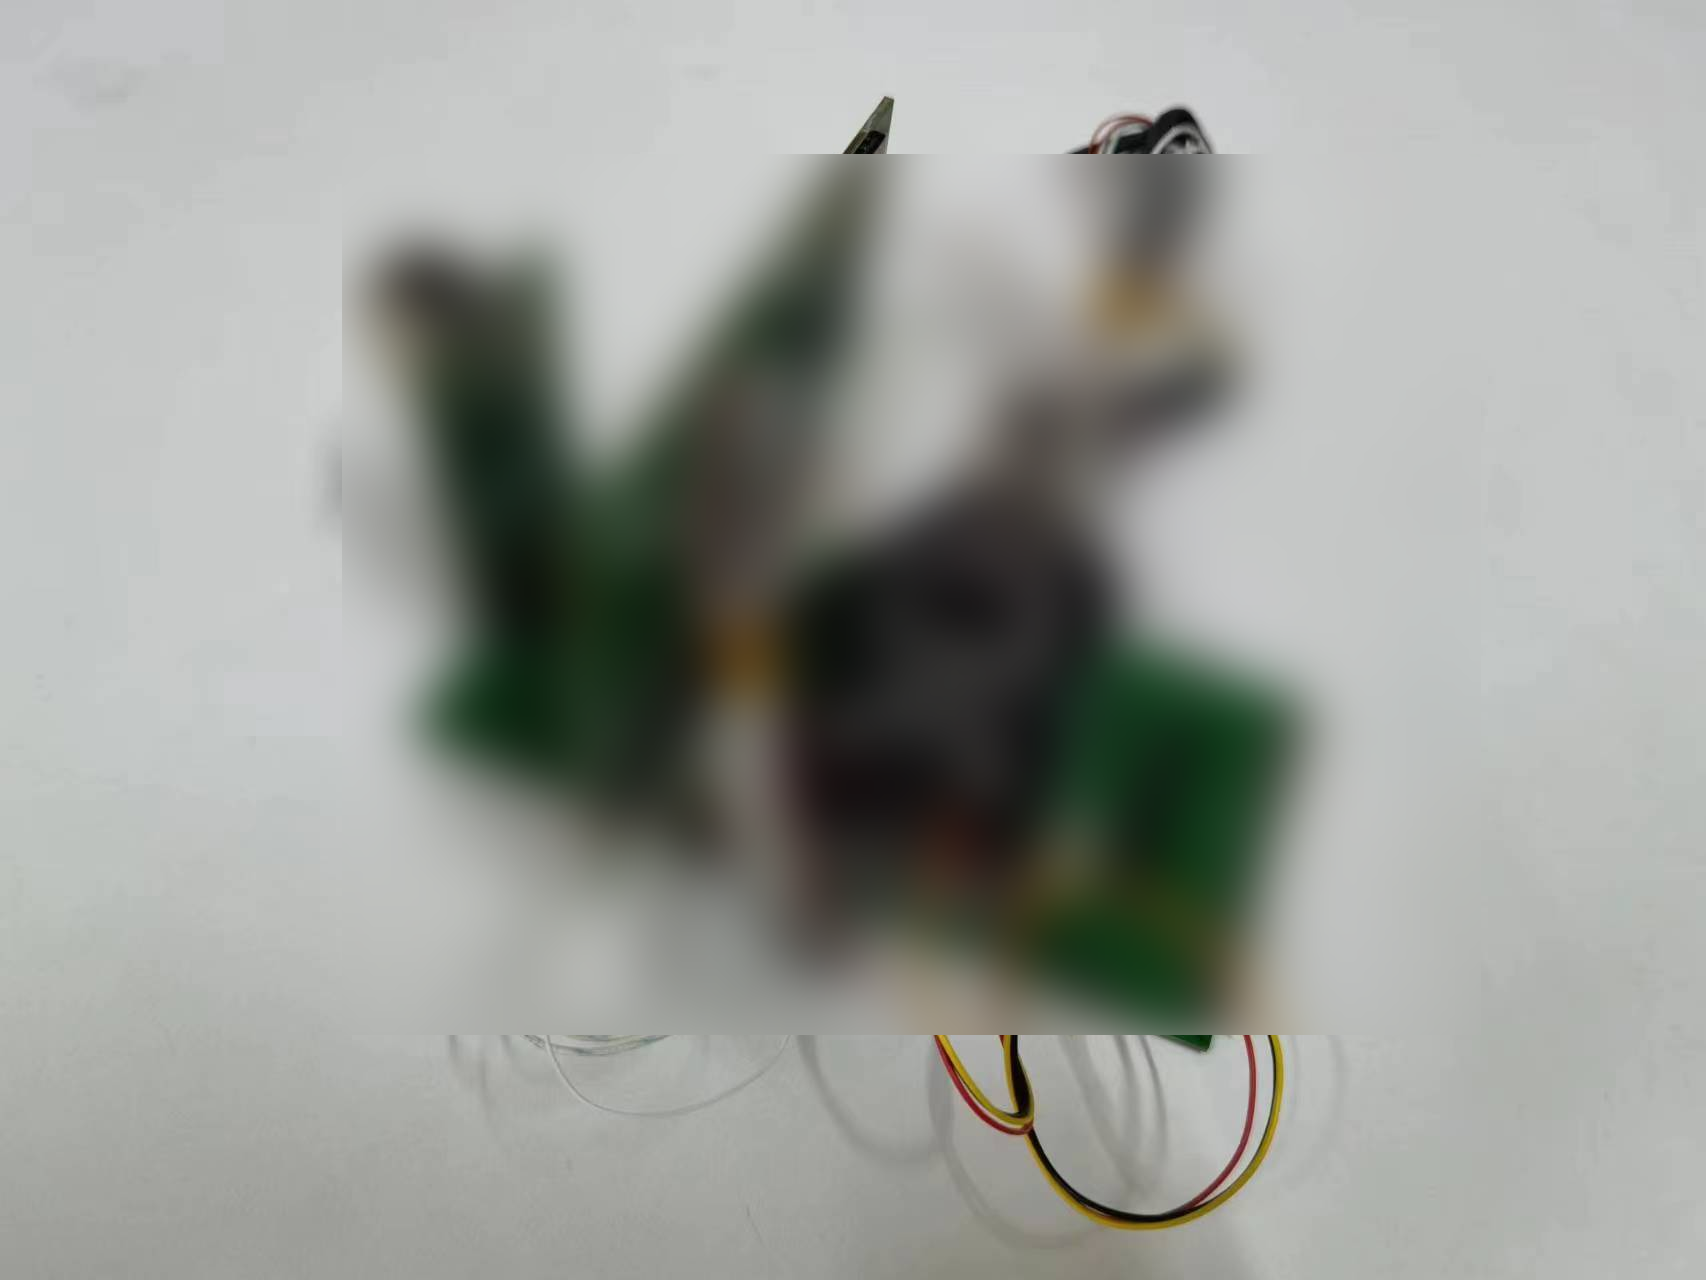
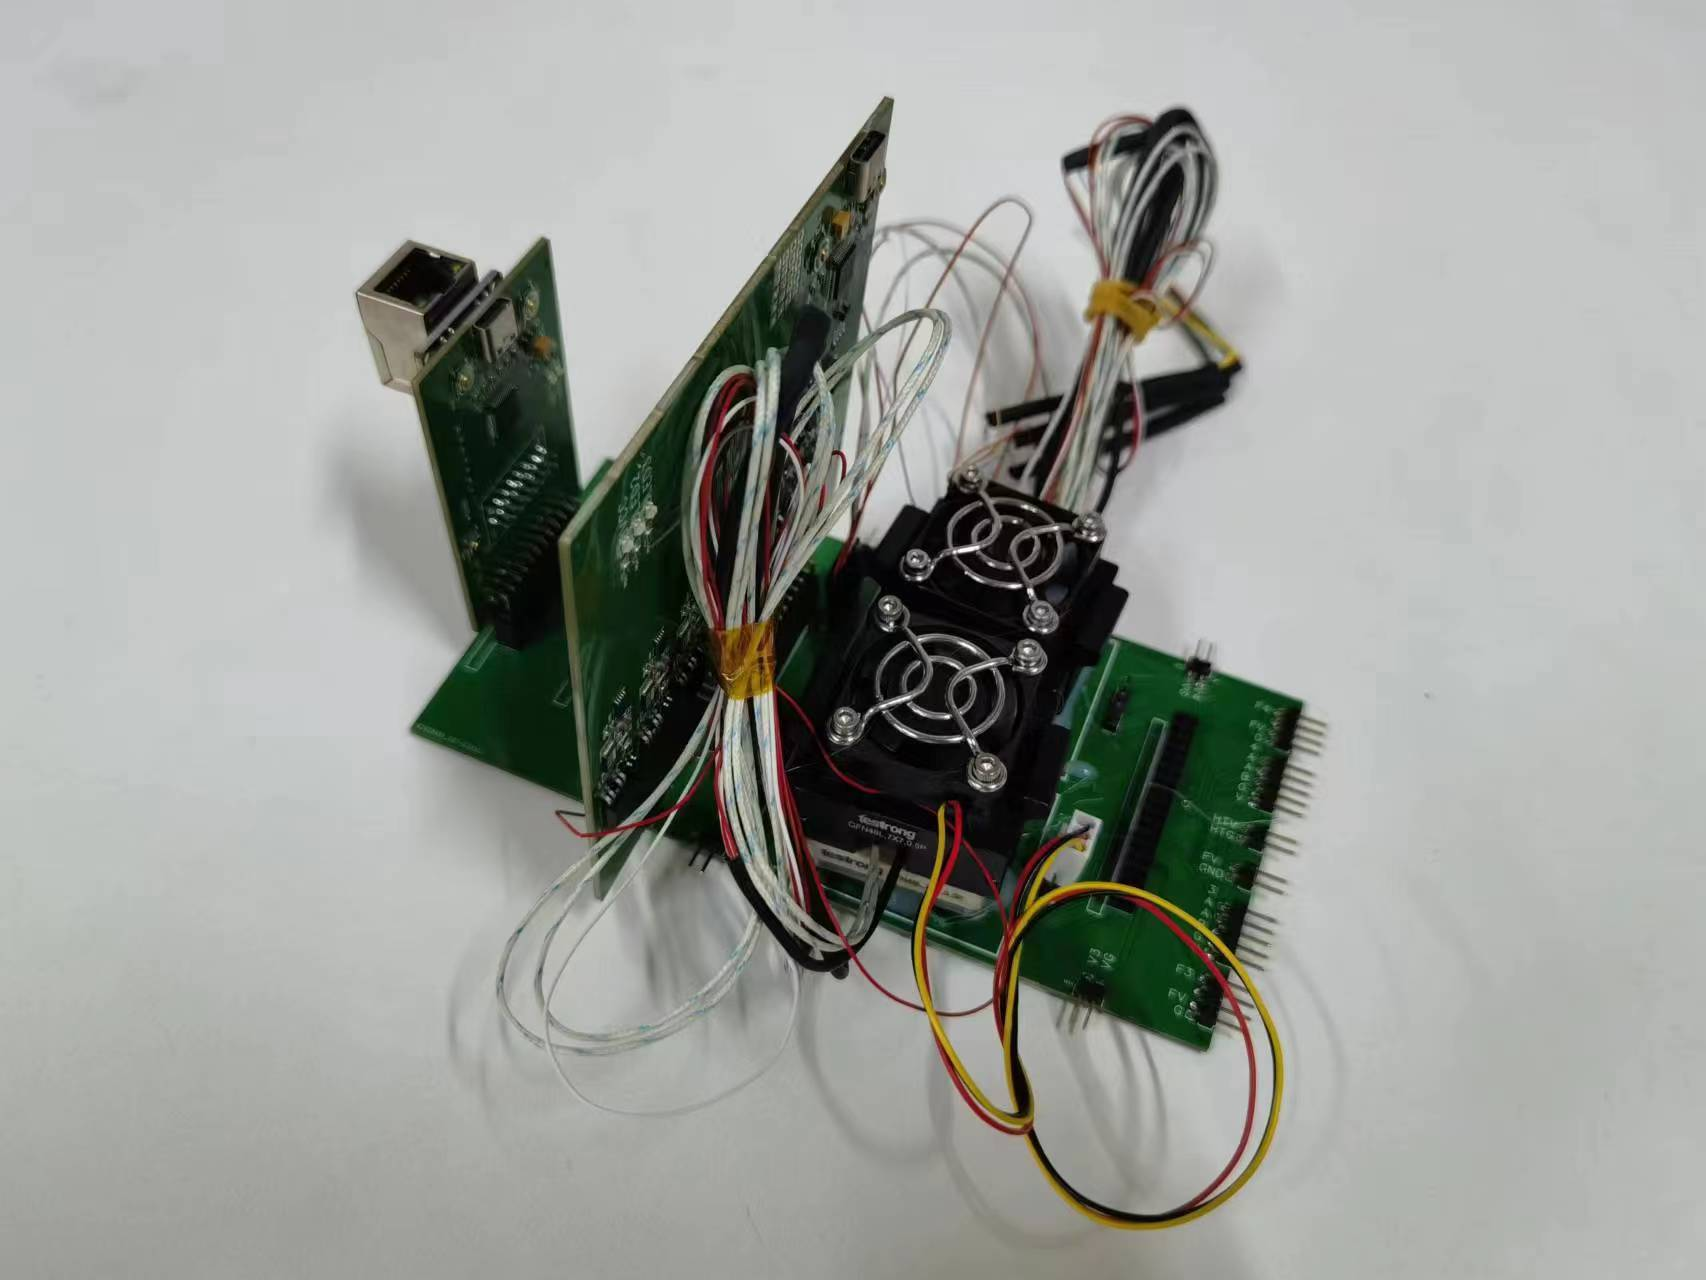
modified:   about.html 	modified:   contact.html 	modified:   css/style.css 	new file:   images/main-pic-1.png 	new file:   images/main-pic-2.png 	new file:   images/main-pic-3.png 	modified:   images/p10-htol-1.jpg 	modified:   images/p12-maglev-1.png 	modified:   images/p13-micronano-1.jpg 	delete

Changed region(s): [[0.1864, 0.0938, 0.7767, 0.8125], [0.2796, 0.7188, 0.3417, 0.7812]]

diff --git a/index.html b/index.html
@@ -121,7 +121,7 @@
 
             <div class="cate">
                 <div class="cate-pic">
-                    <img src="images/p1-pogopin-insert-2.jpg" alt="智能化高精度加工检测设备">
+                    <img src="images/main-pic-1.png" alt="智能化高精度加工检测设备">
                     <span class="badge">01</span>
                 </div>
                 <div class="cate-body">
@@ -143,7 +143,7 @@
 
             <div class="cate rev">
                 <div class="cate-pic">
-                    <img src="images/chip.jpg" alt="专用控制板卡与工业控制软件">
+                    <img src="images/main-pic-2.png" alt="专用控制板卡与工业控制软件">
                     <span class="badge">02</span>
                 </div>
                 <div class="cate-body">
@@ -161,7 +161,7 @@
 
             <div class="cate">
                 <div class="cate-pic">
-                    <img src="images/odd_looking_machine.jpeg" alt="科学仪器与设备">
+                    <img src="images/main-pic-3.png" alt="科学仪器与设备">
                     <span class="badge">03</span>
                 </div>
                 <div class="cate-body">
@@ -203,7 +203,7 @@
                     <div class="big">快</div>
                     <div>
                         <h3>高效交付</h3>
-                        <p>组装速度1,500 pcs/hr（2–3倍人工效率），参数化配置，快速响应客户需求。</p>
+                        <p>快速组装，参数化配置，即刻响应客户需求。</p>
                     </div>
                 </div>
                 <div class="adv-card">
@@ -289,7 +289,7 @@
                     <h4>联系我们</h4>
                     <ul class="contact">
                         <li><span class="k">邮箱</span><span>taoxin@foloe.cn</span></li>
-                        <li><span class="k">地址</span><span>上海市青浦区双联路168号复襄公社</span></li>
+                        <li><span class="k">地址</span><span>上海市青浦区双联路168号复襄公社4号楼108室</span></li>
                     </ul>
                 </div>
             </div>

diff --git a/products/pogopin-probe-insertion-machine.html b/products/pogopin-probe-insertion-machine.html
@@ -60,8 +60,8 @@
             <div class="pd-wrap">
                 
 <div class="pd-gallery">
-    <div class="main-pic"><img src="../images/p1-pogopin-insert-2.jpg" alt="PogoPin探针卡植针机"></div>
-    <div class="thumbs"><img src="../images/p1-pogopin-insert-2.jpg" alt="PogoPin探针卡植针机" class="on" data-full="../images/p1-pogopin-insert-2.jpg"><img src="../images/p1-pogopin-insert-1.jpg" alt="PogoPin探针卡植针机" class="" data-full="../images/p1-pogopin-insert-1.jpg"><img src="../images/p1-pogopin-insert-3.jpg" alt="PogoPin探针卡植针机" class="" data-full="../images/p1-pogopin-insert-3.jpg"></div>
+    <div class="main-pic"><img src="../images/p1-pogopin-insert-1.jpg" alt="PogoPin探针卡植针机"></div>
+    <div class="thumbs"><img src="../images/p1-pogopin-insert-1.jpg" alt="PogoPin探针卡植针机" class="on" data-full="../images/p1-pogopin-insert-1.jpg"><img src="../images/p1-pogopin-insert-2.jpg" alt="PogoPin探针卡植针机" class="" data-full="../images/p1-pogopin-insert-2.jpg"><img src="../images/p1-pogopin-insert-3.jpg" alt="PogoPin探针卡植针机" class="" data-full="../images/p1-pogopin-insert-3.jpg"></div>
 </div>
                 <div class="pd-info">
                     <span class="pd-cat">智能化高精度加工检测设备</span>
@@ -108,9 +108,8 @@
             <div>
                 <h4>联系我们</h4>
                 <ul class="contact">
-                    <li><span class="k">电话</span><span>13916754256</span></li>
                     <li><span class="k">邮箱</span><span>taoxin@foloe.cn</span></li>
-                    <li><span class="k">地址</span><span>上海市青浦区双联路168号复襄公社</span></li>
+                    <li><span class="k">地址</span><span>上海市青浦区双联路168号复襄公社4号楼108室</span></li>
                 </ul>
             </div>
         </div>

diff --git a/products/pogopin-probe-assembly-insertion-machine.html b/products/pogopin-probe-assembly-insertion-machine.html
@@ -61,7 +61,7 @@
                 
 <div class="pd-gallery">
     <div class="main-pic"><img src="../images/p2-assembly-insert-1.png" alt="PogoPin探针组装与植针一体机"></div>
-    <div class="thumbs"><img src="../images/p2-assembly-insert-1.png" alt="PogoPin探针组装与植针一体机" class="on" data-full="../images/p2-assembly-insert-1.png"><img src="../images/p2-assembly-insert-3.png" alt="PogoPin探针组装与植针一体机" class="" data-full="../images/p2-assembly-insert-3.png"></div>
+    <div class="thumbs"><img src="../images/p2-assembly-insert-1.png" alt="PogoPin探针组装与植针一体机" class="on" data-full="../images/p2-assembly-insert-1.png"><img src="../images/p2-assembly-insert-2.png" alt="PogoPin探针组装与植针一体机" class="" data-full="../images/p2-assembly-insert-2.png"><img src="../images/p2-assembly-insert-3.png" alt="PogoPin探针组装与植针一体机" class="" data-full="../images/p2-assembly-insert-3.png"></div>
 </div>
                 <div class="pd-info">
                     <span class="pd-cat">智能化高精度加工检测设备</span>
@@ -108,9 +108,8 @@
             <div>
                 <h4>联系我们</h4>
                 <ul class="contact">
-                    <li><span class="k">电话</span><span>13916754256</span></li>
                     <li><span class="k">邮箱</span><span>taoxin@foloe.cn</span></li>
-                    <li><span class="k">地址</span><span>上海市青浦区双联路168号复襄公社</span></li>
+                    <li><span class="k">地址</span><span>上海市青浦区双联路168号复襄公社4号楼108室</span></li>
                 </ul>
             </div>
         </div>

diff --git a/products/probe-force-tester.html b/products/probe-force-tester.html
@@ -60,8 +60,8 @@
             <div class="pd-wrap">
                 
 <div class="pd-gallery">
-    <div class="main-pic"><img src="../images/p7-force-3.png" alt="全自动探针针压测试仪"></div>
-    <div class="thumbs"><img src="../images/p7-force-3.png" alt="全自动探针针压测试仪" class="" data-full="../images/p7-force-3.png"></div>
+    <div class="main-pic"><img src="../images/p7-force-1.jpg" alt="全自动探针针压测试仪"></div>
+    <div class="thumbs"><img src="../images/p7-force-1.jpg" alt="全自动探针针压测试仪" class="on" data-full="../images/p7-force-1.jpg"><img src="../images/p7-force-2.jpg" alt="全自动探针针压测试仪" class="" data-full="../images/p7-force-2.jpg"><img src="../images/p7-force-3.png" alt="全自动探针针压测试仪" class="" data-full="../images/p7-force-3.png"></div>
 </div>
                 <div class="pd-info">
                     <span class="pd-cat">智能化高精度加工检测设备</span>
@@ -108,9 +108,8 @@
             <div>
                 <h4>联系我们</h4>
                 <ul class="contact">
-                    <li><span class="k">电话</span><span>13916754256</span></li>
                     <li><span class="k">邮箱</span><span>taoxin@foloe.cn</span></li>
-                    <li><span class="k">地址</span><span>上海市青浦区双联路168号复襄公社</span></li>
+                    <li><span class="k">地址</span><span>上海市青浦区双联路168号复襄公社4号楼108室</span></li>
                 </ul>
             </div>
         </div>

diff --git a/products/probe-inspection-sorter.html b/products/probe-inspection-sorter.html
@@ -60,8 +60,8 @@
             <div class="pd-wrap">
                 
 <div class="pd-gallery">
-    <div class="main-pic"><img src="../images/p5-inspection-2.png" alt="探针综合检料仪"></div>
-    <div class="thumbs"><img src="../images/p5-inspection-2.png" alt="探针综合检料仪" class="on" data-full="../images/p5-inspection-2.png"><img src="../images/p5-inspection-1.png" alt="探针综合检料仪" class="" data-full="../images/p5-inspection-2.png"></div>
+    <div class="main-pic"><img src="../images/p5-inspection-1.png" alt="探针综合检料仪"></div>
+    <div class="thumbs"><img src="../images/p5-inspection-1.png" alt="探针综合检料仪" class="on" data-full="../images/p5-inspection-1.png"><img src="../images/p5-inspection-2.png" alt="探针综合检料仪" class="" data-full="../images/p5-inspection-2.png"></div>
 </div>
                 <div class="pd-info">
                     <span class="pd-cat">智能化高精度加工检测设备</span>
@@ -108,9 +108,8 @@
             <div>
                 <h4>联系我们</h4>
                 <ul class="contact">
-                    <li><span class="k">电话</span><span>13916754256</span></li>
                     <li><span class="k">邮箱</span><span>taoxin@foloe.cn</span></li>
-                    <li><span class="k">地址</span><span>上海市青浦区双联路168号复襄公社</span></li>
+                    <li><span class="k">地址</span><span>上海市青浦区双联路168号复襄公社4号楼108室</span></li>
                 </ul>
             </div>
         </div>

diff --git a/products.html b/products.html
@@ -145,7 +145,7 @@
                 <h2 class="mc-title" id="cat2" style="margin-top:46px;">专用控制板卡与工业控制软件 <small>Control Board &amp; Software</small></h2>
                 <div class="pro-grid">
                     <div class="pro-card">
-                        <div class="pic"><img src="images/p8-motion-1.png" alt="步进电机多路驱控一体卡"></div>
+                        <div class="pic"><img src="images/p8-motion-2.png" alt="步进电机多路驱控一体卡"></div>
                         <div class="body">
                             <h3>步进电机多路驱控一体卡</h3>
                             <p>体积小巧、多路控制，WiFi无线/有线控制，精准调节。</p>
@@ -229,7 +229,7 @@
                     <h4>联系我们</h4>
                     <ul class="contact">
                         <li><span class="k">邮箱</span><span>taoxin@foloe.cn</span></li>
-                        <li><span class="k">地址</span><span>上海市青浦区双联路168号复襄公社</span></li>
+                        <li><span class="k">地址</span><span>上海市青浦区双联路168号复襄公社4号楼108室</span></li>
                     </ul>
                 </div>
             </div>

diff --git a/css/style.css b/css/style.css
@@ -427,7 +427,8 @@ h1, h2, h3, h4, h5 { color: var(--ink); line-height: 1.3; }
 
 /* ---------- 页脚 ---------- */
 .footer { background: var(--footer); color: #929293; }
-.footer .top { display: grid; grid-template-columns: 1.4fr 1fr 1fr 1fr 1.2fr; gap: 40px; padding: 56px 0 40px; }
+.footer .top { display: grid; grid-template-columns: 1.4fr 1fr 1fr 1.2fr; gap: 100px; padding: 56px 0 40px; }
+.footer .top > div:nth-child(3) { margin-left: -20px; }
 .footer h4 { color: #fff; font-size: 16px; margin-bottom: 18px; position: relative; padding-left: 14px; }
 .footer h4::before {
     content: "";

diff --git a/products/automatic-pogopin-dispensing-assembly-machine.html b/products/automatic-pogopin-dispensing-assembly-machine.html
@@ -108,9 +108,8 @@
             <div>
                 <h4>联系我们</h4>
                 <ul class="contact">
-                    <li><span class="k">电话</span><span>13916754256</span></li>
                     <li><span class="k">邮箱</span><span>taoxin@foloe.cn</span></li>
-                    <li><span class="k">地址</span><span>上海市青浦区双联路168号复襄公社</span></li>
+                    <li><span class="k">地址</span><span>上海市青浦区双联路168号复襄公社4号楼108室</span></li>
                 </ul>
             </div>
         </div>

diff --git a/products/htol-test-card.html b/products/htol-test-card.html
@@ -108,9 +108,8 @@
             <div>
                 <h4>联系我们</h4>
                 <ul class="contact">
-                    <li><span class="k">电话</span><span>13916754256</span></li>
                     <li><span class="k">邮箱</span><span>taoxin@foloe.cn</span></li>
-                    <li><span class="k">地址</span><span>上海市青浦区双联路168号复襄公社</span></li>
+                    <li><span class="k">地址</span><span>上海市青浦区双联路168号复襄公社4号楼108室</span></li>
                 </ul>
             </div>
         </div>

diff --git a/products/magnetic-levitation-stiffness-tester.html b/products/magnetic-levitation-stiffness-tester.html
@@ -108,9 +108,8 @@
             <div>
                 <h4>联系我们</h4>
                 <ul class="contact">
-                    <li><span class="k">电话</span><span>13916754256</span></li>
                     <li><span class="k">邮箱</span><span>taoxin@foloe.cn</span></li>
-                    <li><span class="k">地址</span><span>上海市青浦区双联路168号复襄公社</span></li>
+                    <li><span class="k">地址</span><span>上海市青浦区双联路168号复襄公社4号楼108室</span></li>
                 </ul>
             </div>
         </div>

diff --git a/products/micro-nano-3d-metal-printer.html b/products/micro-nano-3d-metal-printer.html
@@ -108,9 +108,8 @@
             <div>
                 <h4>联系我们</h4>
                 <ul class="contact">
-                    <li><span class="k">电话</span><span>13916754256</span></li>
                     <li><span class="k">邮箱</span><span>taoxin@foloe.cn</span></li>
-                    <li><span class="k">地址</span><span>上海市青浦区双联路168号复襄公社</span></li>
+                    <li><span class="k">地址</span><span>上海市青浦区双联路168号复襄公社4号楼108室</span></li>
                 </ul>
             </div>
         </div>

diff --git a/products/multi-axis-motion-controller.html b/products/multi-axis-motion-controller.html
@@ -108,9 +108,8 @@
             <div>
                 <h4>联系我们</h4>
                 <ul class="contact">
-                    <li><span class="k">电话</span><span>13916754256</span></li>
                     <li><span class="k">邮箱</span><span>taoxin@foloe.cn</span></li>
-                    <li><span class="k">地址</span><span>上海市青浦区双联路168号复襄公社</span></li>
+                    <li><span class="k">地址</span><span>上海市青浦区双联路168号复襄公社4号楼108室</span></li>
                 </ul>
             </div>
         </div>
